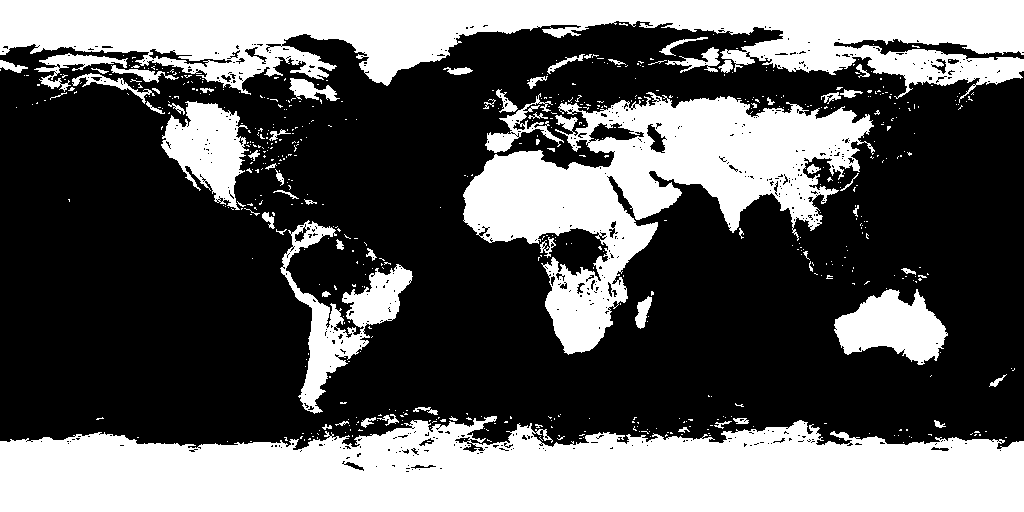
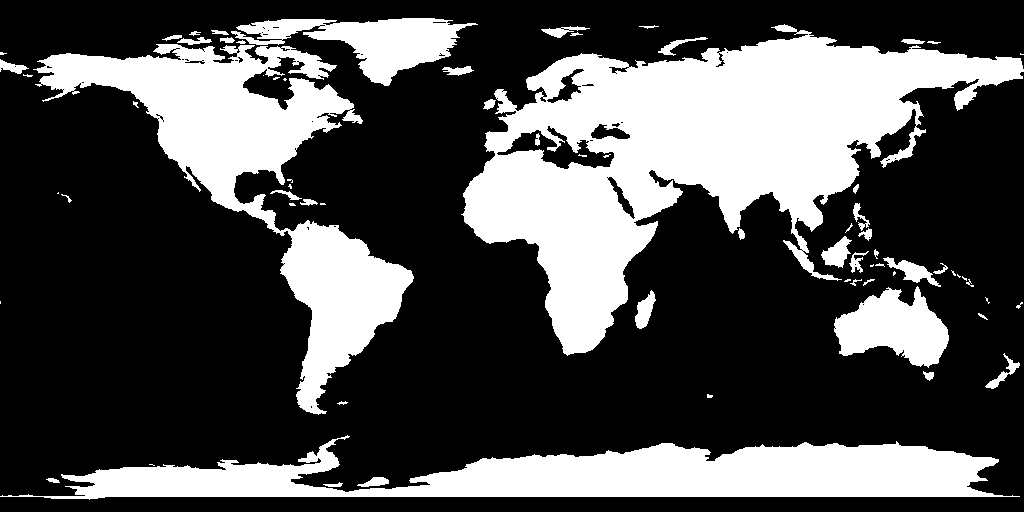
fix(frontend): 修正陆地掩码、补齐经线并消除换页闪句
复核发现的三处实现缺陷：
- 陆地掩码原由 earth_atmos 夜景贴图做蓝色阈值生成，把城市灯光与冰盖当成陆地（赤道非洲被判为海洋）。
  改为 Natural Earth 110m 陆地多边形栅格化：跨 180 度经线的环按经度跳变切段后逐段填充，
  1024×512，陆地占比 0.312；同时把数据与生成脚本、来源许可说明一并纳入仓库。
- 经纬线：原先 5 条为纬线、另 6 条因半径随参数变化退化为球内弦且无经线。
  改为 5 条纬线（固定纬度）+ 6 条经线（固定经度、跨两极），恢复网格结构。
- 打字机：换页瞬间动词先整句闪现再清空重打。动词文本改为在前缀完成前为空，
  并把轮播推进条件收紧为「前缀完成且动词完成」。
- 点阵参数回到目标站量级（28000 点、点大小 2.4、海洋权重 0.13）。

diff --git a/frontend/src/components/home/useOrbitScene.ts b/frontend/src/components/home/useOrbitScene.ts
@@ -306,34 +306,32 @@ export function useOrbitScene(
     const SEG = 128
     const wireRadius = BALL_RADIUS * 1.002
 
-    for (let m = -2; m <= 2; m++) {
-      const tilt = (m * Math.PI) / 7
+    // 5 条纬线：固定纬度，半径随纬度收缩
+    for (let p = 1; p <= 5; p++) {
+      const theta = (p / 6) * Math.PI
+      const y = Math.cos(theta) * wireRadius
+      const ring = Math.sin(theta) * wireRadius
       const pts: InstanceType<typeof THREE.Vector3>[] = []
       for (let i = 0; i < SEG; i++) {
         const a = (i / SEG) * Math.PI * 2
-        pts.push(
-          new THREE.Vector3(
-            Math.cos(a) * Math.cos(tilt) * wireRadius,
-            Math.sin(tilt) * wireRadius,
-            Math.sin(a) * Math.cos(tilt) * wireRadius
-          )
-        )
+        pts.push(new THREE.Vector3(Math.cos(a) * ring, y, Math.sin(a) * ring))
       }
       const line = new THREE.Line(new THREE.BufferGeometry().setFromPoints(pts), wireMat)
       line.renderOrder = 2
       wireGroup.add(line)
     }
 
-    for (let p = 0; p < 6; p++) {
-      const lat = (p / 6) * Math.PI
+    // 6 条经线：固定经度，沿纬度方向跨两个极点的圆
+    for (let m = 0; m < 6; m++) {
+      const lon = (m / 6) * Math.PI
       const pts: InstanceType<typeof THREE.Vector3>[] = []
       for (let i = 0; i < SEG; i++) {
-        const a = (i / SEG) * Math.PI * 2
+        const phi = (i / SEG) * Math.PI * 2
         pts.push(
           new THREE.Vector3(
-            Math.cos(a) * Math.cos(lat) * wireRadius,
-            Math.sin(lat) * wireRadius,
-            Math.cos(a) * Math.sin(lat) * wireRadius
+            Math.cos(phi) * Math.cos(lon) * wireRadius,
+            Math.sin(phi) * wireRadius,
+            Math.cos(phi) * Math.sin(lon) * wireRadius
           )
         )
       }
@@ -344,7 +342,7 @@ export function useOrbitScene(
     globe.add(wireGroup)
 
     /* ---------- 陆地加权点阵 ---------- */
-    const POINT_COUNT = 42000
+    const POINT_COUNT = 28000
     const GOLDEN_ANGLE = Math.PI * (3 - Math.sqrt(5))
     const positions: number[] = []
     const weights: number[] = []
@@ -376,7 +374,7 @@ export function useOrbitScene(
 
       const r = BALL_RADIUS * 1.002
       positions.push(x * r, y * r, z * r)
-      weights.push(land ? 1 : 0.18)
+      weights.push(land ? 1 : 0.13)
     }
 
     const pointGeo = new THREE.BufferGeometry()
@@ -386,7 +384,7 @@ export function useOrbitScene(
     const pointMat = new THREE.ShaderMaterial({
       uniforms: {
         uPixelRatio: { value: Math.min(window.devicePixelRatio || 1, 2) },
-        uPointSize: { value: 3.4 },
+        uPointSize: { value: 2.4 },
         uCool: { value: cool },
         uSilver: { value: silver }
       },
@@ -411,7 +409,7 @@ export function useOrbitScene(
         uniform vec3 uCool, uSilver;
         void main() {
           float mask = 1.0 - smoothstep(0.1, 0.5, length(gl_PointCoord - 0.5));
-          float a = mix(0.04, 1.0, smoothstep(-0.25, 0.92, vDepth)) * vWeight * mask;
+          float a = mix(0.02, 0.72, smoothstep(-0.2, 0.88, vDepth)) * vWeight * mask;
           gl_FragColor = vec4(mix(uCool, uSilver, 0.64), a);
         }
       `
@@ -781,6 +779,7 @@ export function useOrbitScene(
 
   return { start, resize, dispose }
 }
+
 
 
 

diff --git a/frontend/src/components/home/HomeOrbitHero.vue b/frontend/src/components/home/HomeOrbitHero.vue
@@ -120,9 +120,9 @@ const prefixState = useTypewriter(() => activeSlide.value.prefix, {
 const prefixVisible = prefixState.visible
 const prefixDone = prefixState.done
 
-const verbState = useTypewriter(() => activeSlide.value.verb, {
+const verbState = useTypewriter(() => (prefixDone.value ? activeSlide.value.verb : ''), {
   charDelayMs: VERB_CHAR_MS,
-  enabled: computed(() => animate.value && prefixDone.value)
+  enabled: animate
 })
 const verbVisible = verbState.visible
 const verbDone = verbState.done
@@ -176,7 +176,7 @@ function onVisibilityChange(): void {
 }
 
 watch(verbDone, (done) => {
-  if (done) scheduleAdvance()
+  if (done && prefixDone.value) scheduleAdvance()
 })
 
 watch(slideIndex, (index) => {
@@ -467,4 +467,5 @@ onBeforeUnmount(() => {
   }
 }
 </style>
+
 

diff --git a/frontend/public/globe/build-land-mask.py b/frontend/public/globe/build-land-mask.py
@@ -1,0 +1,85 @@
+"""Natural Earth 110m 陆地 TopoJSON → 等距柱状陆地掩码 PNG。
+
+跨 180° 经线的环先按经度跳变切段，再逐段填充，避免出现横向拉丝。
+用法: python build_land_mask.py <land-110m.json> <out.png>
+"""
+import json
+import sys
+from PIL import Image, ImageDraw
+
+W, H = 1024, 512
+
+
+def decode_arcs(topo):
+    sx, sy = topo['transform']['scale']
+    tx, ty = topo['transform']['translate']
+    arcs = []
+    for arc in topo['arcs']:
+        x = y = 0
+        pts = []
+        for dx, dy in arc:
+            x += dx
+            y += dy
+            pts.append((x * sx + tx, y * sy + ty))
+        arcs.append(pts)
+    return arcs
+
+
+def ring_points(arcs, ring):
+    pts = []
+    for idx in ring:
+        arc = arcs[idx] if idx >= 0 else list(reversed(arcs[-1 - idx]))
+        pts.extend(arc if not pts else arc[1:])
+    return pts
+
+
+def split_on_seam(pts, limit=180.0):
+    """按经度跳变把环切成若干段，避免跨经线时画出横贯整图的弦。"""
+    segs = []
+    cur = [pts[0]] if pts else []
+    prev = pts[0][0] if pts else None
+    for lon, lat in pts[1:]:
+        if prev is not None and abs(lon - prev) > limit:
+            segs.append(cur)
+            cur = []
+        cur.append((lon, lat))
+        prev = lon
+    if cur:
+        segs.append(cur)
+    return [s for s in segs if len(s) >= 3]
+
+
+def to_pixels(pts):
+    return [((lon + 180.0) / 360.0 * W, (90.0 - lat) / 180.0 * H) for lon, lat in pts]
+
+
+def main(src, dst):
+    topo = json.load(open(src, encoding='utf-8'))
+    arcs = decode_arcs(topo)
+    land = topo['objects']['land']
+
+    img = Image.new('L', (W, H), 0)
+    draw = ImageDraw.Draw(img)
+
+    geoms = land['geometries'] if land['type'] == 'GeometryCollection' else [land]
+    drawn = 0
+    for geom in geoms:
+        if geom['type'] == 'Polygon':
+            polygons = [geom['arcs']]
+        elif geom['type'] == 'MultiPolygon':
+            polygons = geom['arcs']
+        else:
+            continue
+        for polygon in polygons:
+            for ring in polygon:
+                for seg in split_on_seam(ring_points(arcs, ring)):
+                    draw.polygon(to_pixels(seg), fill=255)
+                    drawn += 1
+
+    img.save(dst)
+    land_ratio = sum(1 for p in img.getdata() if p > 127) / (W * H)
+    print(f'segments={drawn} land_ratio={land_ratio:.4f} saved={dst}')
+
+
+if __name__ == '__main__':
+    main(sys.argv[1], sys.argv[2])

diff --git a/frontend/public/globe/README.md b/frontend/public/globe/README.md
@@ -1,0 +1,18 @@
+# 地球陆地掩码资源
+
+`land-mask.png`：1024×512 等距柱状投影的陆地掩码，陆地 255、海洋 0，
+供 `src/components/home/useOrbitScene.ts` 按陆地/海洋加权撒点。
+
+## 来源与许可
+
+- 底图数据：Natural Earth 1:110m `land`（`land-110m.json`，本目录同放），Natural Earth 数据属公有领域。
+- 数据文件来自 `world-atlas@2`（https://github.com/topojson/world-atlas），该包同样基于 Natural Earth。
+- 生成脚本：`build-land-mask.py`（本目录），仅依赖 Pillow。跨 180 度经线的环按经度跳变切段后逐段填充。
+
+## 重新生成
+
+```bash
+python build-land-mask.py land-110m.json land-mask.png
+```
+
+脚本输出陆地占比，当前值约 0.31（地球陆地面积占比约 0.29）。
